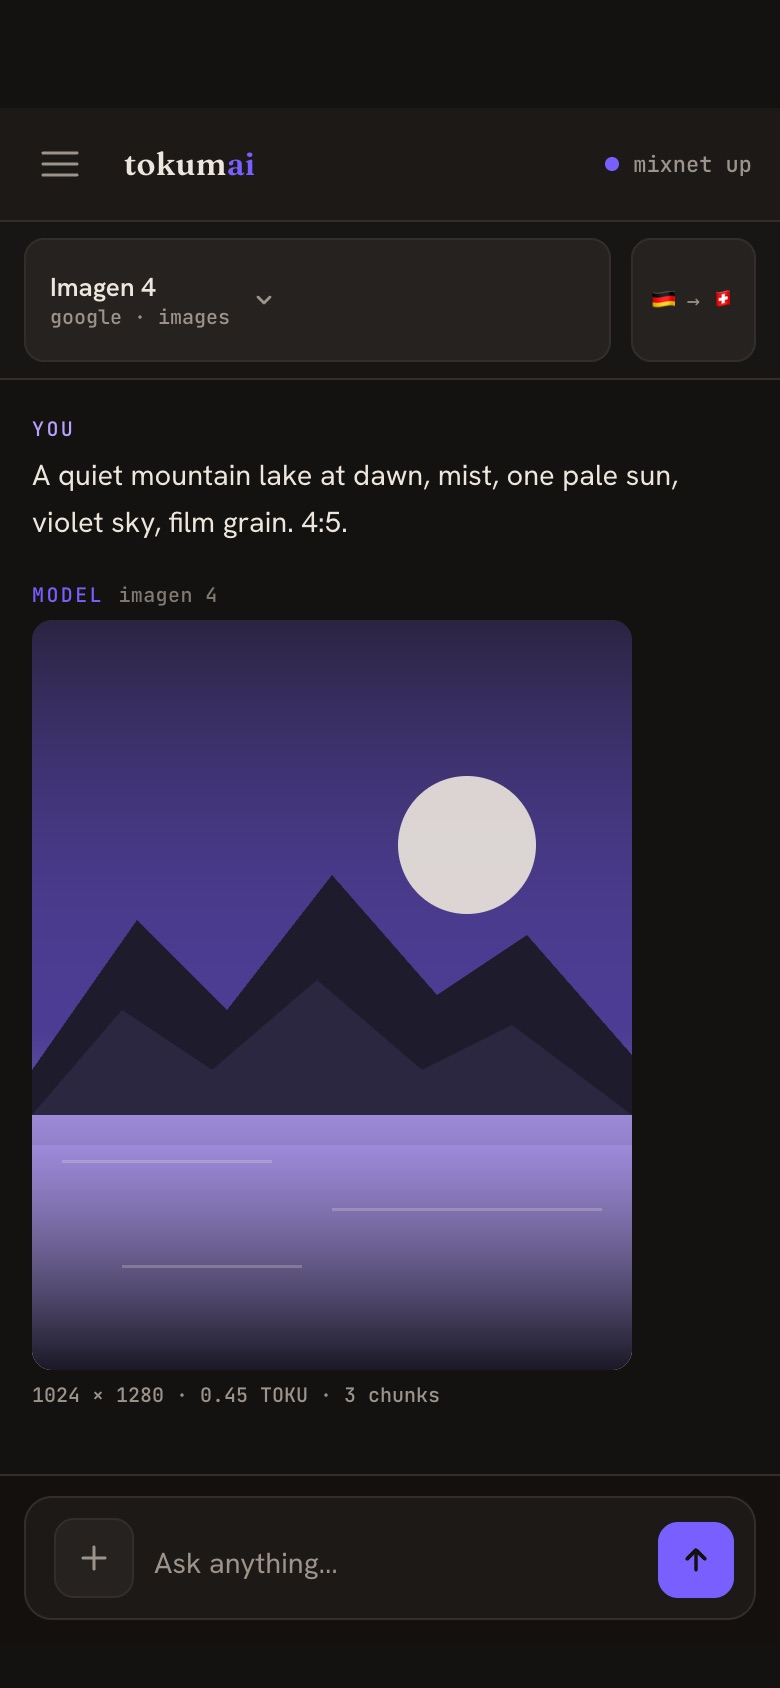
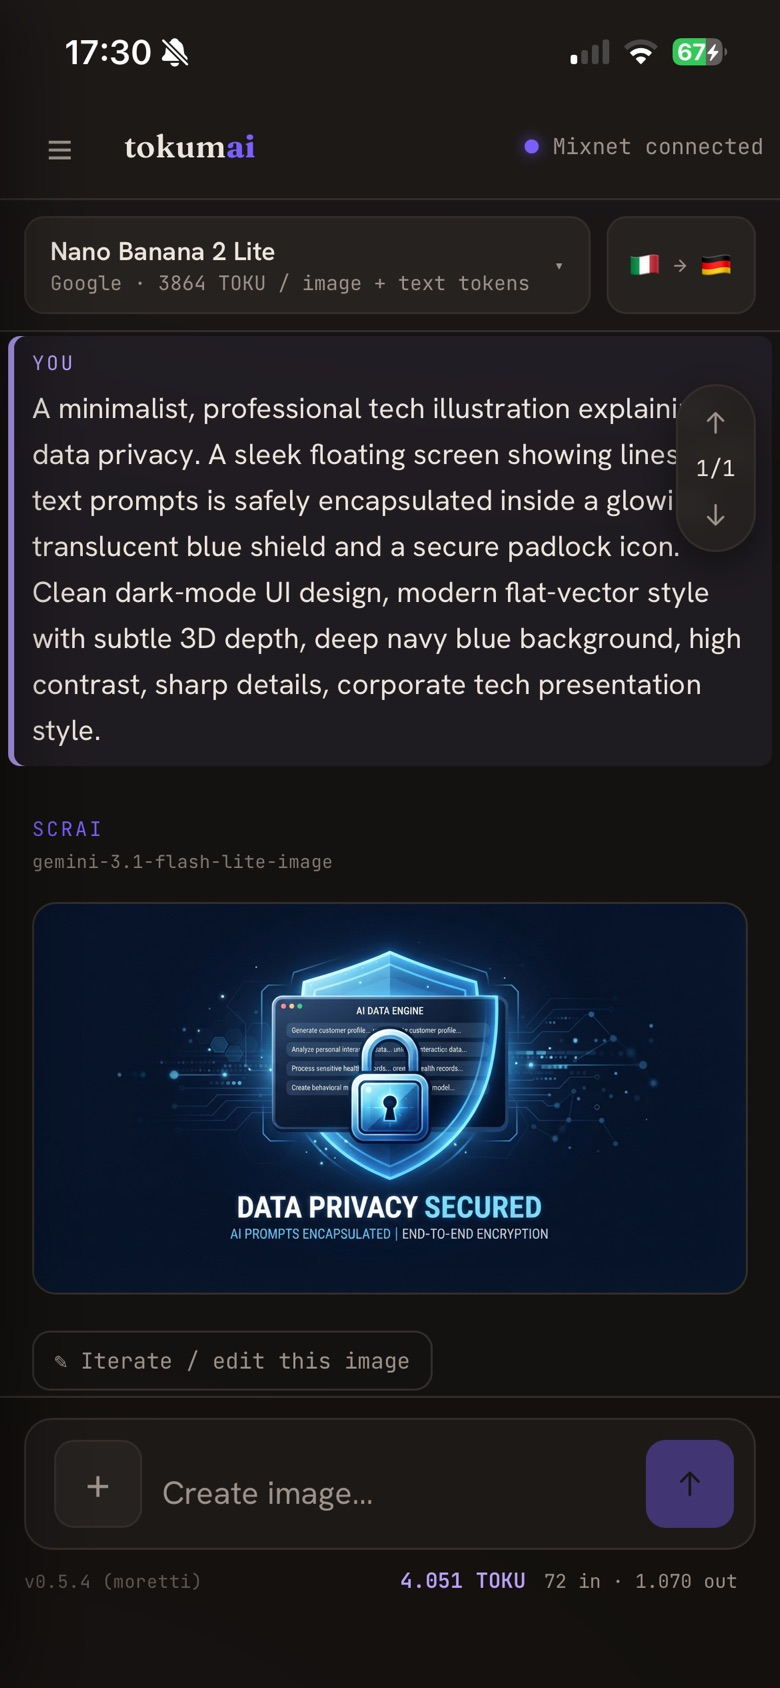
Site: real device captures replace the mockups — and the chat still called itself SCRAI
The homepage shipped drawn stand-ins: a hero with an invented conversation list and a
hand-drawn "mountain lake", and two phone shots that said PLACEHOLDER in the markup. All
five slots are real captures now (2026-09-06, 0.5.4 on an iPhone 17e and macOS):

  hero-imagegen      the macOS window, cropped to its own edges, generating a Nym diagram
  how-phone-start    the start screen with the two tiles
  how-phone-image    a picture generated on the phone
  how-phone-network  Settings → Network & Privacy, the mixnet sliders
  flow-ready         the first-start sequence, connecting through the mixnet

how-phone-buy and how-phone-menu are gone: the names described stand-ins that no longer
exist, and every caption now says what its picture actually shows.

The captures are dark-theme only, so IMAGES points the -light name at the same bytes
rather than shipping a second copy — a dark app photographs dark. site-preview.sh mirrors
that alias, or light mode 404s on exactly those five.

Sources moved to assets/screenshots/ (with a README of what is cut from what). They were
dropped in public/, which is frontendDist — 3.2 MB of PNGs would have been bundled into
every installer on all five platforms.

And the thing the new screenshots made visible: the message author label was still
'scrai', rendered uppercase next to every answer the model gives. It is UI text, not one
of the identifiers the rebrand deliberately kept (bundle id, keychain, storage keys). Now
[…]

diff --git a/server/site/index.html b/server/site/index.html
@@ -158,7 +158,7 @@
       <p>Ask Gemini or GPT anything. Nobody can tie the question to you. Not the model, not the network, not even us. Prompts travel through five Nym mixnet hops, credit is bought once and spent as blind-signed coins. No e-mail, no phone number, no link between your prompts and your real-world identity.</p>
       <div class="cta"><a class="btn primary big" href="#download">Download</a><a class="btn big" href="#buy">Buy TOKU</a></div>
     </div>
-    <div class="shotwrap"><button class="shot " type="button" data-full="/img/hero-imagegen" aria-label="Enlarge: tokumai on macOS: a picture generated over five mixnet hops" style="aspect-ratio:1440/900"><img class="dk " src="/img/hero-imagegen-dark.jpg" alt="tokumai on macOS: a picture generated over five mixnet hops" loading="lazy"><img class="lt " src="/img/hero-imagegen-light.jpg" alt="tokumai on macOS: a picture generated over five mixnet hops" loading="lazy"></button><div class="shotcap"><span>macOS · {{VERSION_SHORT}} · a picture generated over five mixnet hops</span><b>click to enlarge</b></div></div>
+    <div class="shotwrap"><button class="shot " type="button" data-full="/img/hero-imagegen" aria-label="Enlarge: tokumai on macOS: a picture generated over five mixnet hops" style="aspect-ratio:2479/1655"><img class="dk " src="/img/hero-imagegen-dark.jpg" alt="tokumai on macOS: a picture generated over five mixnet hops" loading="lazy"><img class="lt " src="/img/hero-imagegen-light.jpg" alt="tokumai on macOS: a picture generated over five mixnet hops" loading="lazy"></button><div class="shotcap"><span>macOS · {{VERSION_SHORT}} · a picture generated over five mixnet hops</span><b>click to enlarge</b></div></div>
   </div>
 
   <div class="sec" id="how">
@@ -169,12 +169,7 @@
     <div class="screens">
       <button class="shot " type="button" data-full="/img/how-mac-chat" aria-label="Enlarge: tokumai on macOS: a text answer over the mixnet" style="aspect-ratio:1440/900"><img class="dk " src="/img/how-mac-chat-dark.jpg" alt="tokumai on macOS: a text answer over the mixnet" loading="lazy"><img class="lt " src="/img/how-mac-chat-light.jpg" alt="tokumai on macOS: a text answer over the mixnet" loading="lazy"></button>
       <button class="shot " type="button" data-full="/img/how-mac-image" aria-label="Enlarge: tokumai on macOS: a generated picture" style="aspect-ratio:1440/900"><img class="dk " src="/img/how-mac-image-dark.jpg" alt="tokumai on macOS: a generated picture" loading="lazy"><img class="lt " src="/img/how-mac-image-light.jpg" alt="tokumai on macOS: a generated picture" loading="lazy"></button>
-      <div class="phones"><button class="shot ph" type="button" data-full="/img/how-phone-chat" aria-label="Enlarge: tokumai on iPhone: a text answer" style="aspect-ratio:390/844"><img class="dk " src="/img/how-phone-chat-dark.jpg" alt="tokumai on iPhone: a text answer" loading="lazy"><img class="lt " src="/img/how-phone-chat-light.jpg" alt="tokumai on iPhone: a text answer" loading="lazy"></button><button class="shot ph" type="button" data-full="/img/how-phone-image" aria-label="Enlarge: tokumai on iPhone: a generated picture" style="aspect-ratio:390/844"><img class="dk " src="/img/how-phone-image-dark.jpg" alt="tokumai on iPhone: a generated picture" loading="lazy"><img class="lt " src="/img/how-phone-image-light.jpg" alt="tokumai on iPhone: a generated picture" loading="lazy"></button>
-<!-- PLACEHOLDERS: how-phone-buy-* and how-phone-menu-* are generated stand-ins, not
-     screenshots. Replace the four files in server/site/img/ with real 780x1688 tokumai
-     captures (dark + light of each) — same filenames, nothing here needs to change.
-     They are registered in scrai-faucet.rs IMAGES, which is what actually serves them. -->
-<button class="shot ph" type="button" data-full="/img/how-phone-buy" aria-label="Enlarge: tokumai on iPhone: buying credit, invoice with QR code" style="aspect-ratio:390/844"><img class="dk " src="/img/how-phone-buy-dark.jpg" alt="tokumai on iPhone: buying credit, invoice with QR code" loading="lazy"><img class="lt " src="/img/how-phone-buy-light.jpg" alt="tokumai on iPhone: buying credit, invoice with QR code" loading="lazy"></button><button class="shot ph" type="button" data-full="/img/how-phone-menu" aria-label="Enlarge: tokumai on iPhone: the menu open" style="aspect-ratio:390/844"><img class="dk " src="/img/how-phone-menu-dark.jpg" alt="tokumai on iPhone: the menu open" loading="lazy"><img class="lt " src="/img/how-phone-menu-light.jpg" alt="tokumai on iPhone: the menu open" loading="lazy"></button></div>
+      <div class="phones"><button class="shot ph" type="button" data-full="/img/how-phone-start" aria-label="Enlarge: tokumai on iPhone: the start screen, connected through the mixnet" style="aspect-ratio:390/844"><img class="dk " src="/img/how-phone-start-dark.jpg" alt="tokumai on iPhone: the start screen, connected through the mixnet" loading="lazy"><img class="lt " src="/img/how-phone-start-light.jpg" alt="tokumai on iPhone: the start screen, connected through the mixnet" loading="lazy"></button><button class="shot ph" type="button" data-full="/img/how-phone-chat" aria-label="Enlarge: tokumai on iPhone: a text answer" style="aspect-ratio:390/844"><img class="dk " src="/img/how-phone-chat-dark.jpg" alt="tokumai on iPhone: a text answer" loading="lazy"><img class="lt " src="/img/how-phone-chat-light.jpg" alt="tokumai on iPhone: a text answer" loading="lazy"></button><button class="shot ph" type="button" data-full="/img/how-phone-image" aria-label="Enlarge: tokumai on iPhone: a generated picture" style="aspect-ratio:390/844"><img class="dk " src="/img/how-phone-image-dark.jpg" alt="tokumai on iPhone: a generated picture" loading="lazy"><img class="lt " src="/img/how-phone-image-light.jpg" alt="tokumai on iPhone: a generated picture" loading="lazy"></button><button class="shot ph" type="button" data-full="/img/how-phone-network" aria-label="Enlarge: tokumai on iPhone: Settings, the mixnet privacy sliders" style="aspect-ratio:390/844"><img class="dk " src="/img/how-phone-network-dark.jpg" alt="tokumai on iPhone: Settings, the mixnet privacy sliders" loading="lazy"><img class="lt " src="/img/how-phone-network-light.jpg" alt="tokumai on iPhone: Settings, the mixnet privacy sliders" loading="lazy"></button></div>
     </div>
     <p class="note" style="margin-top:12px">Text with Gemini or GPT, pictures with Imagen. A prompt costs a few hundredths of a cent, a 4K picture around fifteen cents; the price is shown before you send.</p>
   </div>
@@ -183,7 +178,7 @@
     <div class="eyebrow">02 · Buy TOKU</div>
     <h2>Credit that can’t be <b>traced</b> to a question</h2>
     <p class="lead">TOKU is prepaid credit. You buy it once as an account top-up, here or in the app, and spend it as blind-signed coins. Before you buy, three things happen in the app, and none of them asks who you are.</p>
-    <div class="flow"><div class="fs"><button class="shot ph" type="button" data-full="/img/flow-ready" aria-label="Enlarge: tokumai on iPhone, connected" style="aspect-ratio:390/844"><img class="dk " src="/img/flow-ready-dark.jpg" alt="tokumai on iPhone, connected" loading="lazy"><img class="lt " src="/img/flow-ready-light.jpg" alt="tokumai on iPhone, connected" loading="lazy"></button><div class="fst"><i>a</i><b>Download the app</b><span>macOS, Linux, Windows, iPhone or Android, from the cards further down. It connects to the mixnet on first start.</span></div></div><div class="fs"><button class="shot ph" type="button" data-full="/img/flow-account" aria-label="Enlarge: Account sheet: create an anonymous account" style="aspect-ratio:390/844"><img class="dk " src="/img/flow-account-dark.jpg" alt="Account sheet: create an anonymous account" loading="lazy"><img class="lt " src="/img/flow-account-light.jpg" alt="Account sheet: create an anonymous account" loading="lazy"></button><div class="fst"><i>b</i><b>Open an anonymous account</b><span>Account → Create anonymous account. No email, no phone, no password. A 24-word phrase is generated on your device and is the whole account.</span></div></div><div class="fs"><button class="shot ph" type="button" data-full="/img/flow-topup" aria-label="Enlarge: Top up on the web: the top-up ID" style="aspect-ratio:390/844"><img class="dk " src="/img/flow-topup-dark.jpg" alt="Top up on the web: the top-up ID" loading="lazy"><img class="lt " src="/img/flow-topup-light.jpg" alt="Top up on the web: the top-up ID" loading="lazy"></button><div class="fst"><i>c</i><b>Pick an amount</b><span>Buy credit → an amount. The app raises the invoice and either shows you how to pay it, or hands it to this site. The credit lands in the app as “held”.</span></div></div></div>
+    <div class="flow"><div class="fs"><button class="shot ph" type="button" data-full="/img/flow-ready" aria-label="Enlarge: tokumai on iPhone: connecting through the mixnet on first start" style="aspect-ratio:390/844"><img class="dk " src="/img/flow-ready-dark.jpg" alt="tokumai on iPhone: connecting through the mixnet on first start" loading="lazy"><img class="lt " src="/img/flow-ready-light.jpg" alt="tokumai on iPhone: connecting through the mixnet on first start" loading="lazy"></button><div class="fst"><i>a</i><b>Download the app</b><span>macOS, Linux, Windows, iPhone or Android, from the cards further down. It connects to the mixnet on first start.</span></div></div><div class="fs"><button class="shot ph" type="button" data-full="/img/flow-account" aria-label="Enlarge: Account sheet: create an anonymous account" style="aspect-ratio:390/844"><img class="dk " src="/img/flow-account-dark.jpg" alt="Account sheet: create an anonymous account" loading="lazy"><img class="lt " src="/img/flow-account-light.jpg" alt="Account sheet: create an anonymous account" loading="lazy"></button><div class="fst"><i>b</i><b>Open an anonymous account</b><span>Account → Create anonymous account. No email, no phone, no password. A 24-word phrase is generated on your device and is the whole account.</span></div></div><div class="fs"><button class="shot ph" type="button" data-full="/img/flow-topup" aria-label="Enlarge: Top up on the web: the top-up ID" style="aspect-ratio:390/844"><img class="dk " src="/img/flow-topup-dark.jpg" alt="Top up on the web: the top-up ID" loading="lazy"><img class="lt " src="/img/flow-topup-light.jpg" alt="Top up on the web: the top-up ID" loading="lazy"></button><div class="fst"><i>c</i><b>Pick an amount</b><span>Buy credit → an amount. The app raises the invoice and either shows you how to pay it, or hands it to this site. The credit lands in the app as “held”.</span></div></div></div>
     
 <div class="blk"><div class="bh"><i>1</i><b>Buy in the app</b><span>Buy credit → pick an amount</span></div>
   <div class="note">The invoice is raised and signed inside the app, where your account key

diff --git a/public/index.html b/public/index.html
@@ -2187,7 +2187,7 @@ try{if(/Windows/i.test(navigator.userAgent))document.documentElement.classList.a
     const prevTop = t.scrollTop;
     t.innerHTML=`<div class="wrap">`+messages.map((m,mi)=>`
       <div class="msg ${m.role}">
-        <div class="who">${m.role==='you'?'you':(m.role==='err'?'error':'scrai')}${m.role==='ai'&&m.model?`<span class="viamodel">${esc(m.model)}</span>`:''}</div>
+        <div class="who">${m.role==='you'?'you':(m.role==='err'?'error':'tokumai')}${m.role==='ai'&&m.model?`<span class="viamodel">${esc(m.model)}</span>`:''}</div>
         <div class="body">${bodyHtml(m,mi)}${(m.role==='you'&&m.editRef)?`<div class="editref">✎ edits the selected picture</div>`:''}${(m.role==='ai'&&m.note)?`<div class="sizenote${m.noteKind?' '+m.noteKind:''}">${esc(m.note)}</div>`:''}${(devCost&&m.role==='ai'&&m.audit)?auditDiv(m.audit):''}${(devCost&&m.role==='you'&&m.xfer)?xferDiv(m.xfer):''}${(m.role==='err'&&m.retry)?`<button class="retrybtn" data-click="retryMsg" data-args="${mi}">↻ Retry</button>`:''}${(m.role==='ai'&&m.streaming&&!m.dismissed)?`<div class="msgacts"><button class="msgact rust" data-click="cancelMsg" data-args="${mi}">✕ Dismiss</button>${m.img?'<span class="billhint">billing has started — this only stops the wait</span>':''}</div>`:''}${(m.role==='ai'&&!m.streaming&&m.canResend)?`<div class="msgacts"><button class="msgact" data-click="resendMsg" data-args="${mi}" title="Send the same question again with the currently selected model">↻ Resend</button></div>`:''}</div>
       </div>`).join("")+`</div>`;
     if(pinQuestion){ pinLastQuestion(t); }

diff --git a/server/src/bin/scrai-faucet.rs b/server/src/bin/scrai-faucet.rs
@@ -106,28 +106,38 @@ const PAID_HTML: &str = r##"<!doctype html>
 </html>
 "##;
 
+// The five real device captures (2026-09-06) exist in ONE theme — the app's dark one.
+// Rather than ship a copy of each under a second name, the light entry points at the same
+// bytes: the page asks for `<name>-light.jpg` in light mode and gets the dark screenshot,
+// which is what a product shot of a dark app looks like anyway. Drop the alias and add a
+// real file the day someone captures the light theme.
+const SHOT_HERO: &[u8] = include_bytes!("../../site/img/hero-imagegen-dark.jpg");
+const SHOT_PH_IMAGE: &[u8] = include_bytes!("../../site/img/how-phone-image-dark.jpg");
+const SHOT_PH_NETWORK: &[u8] = include_bytes!("../../site/img/how-phone-network-dark.jpg");
+const SHOT_PH_START: &[u8] = include_bytes!("../../site/img/how-phone-start-dark.jpg");
+const SHOT_FLOW_READY: &[u8] = include_bytes!("../../site/img/flow-ready-dark.jpg");
+
 const IMAGES: &[(&str, &[u8])] = &[
     ("flow-account-dark.jpg", include_bytes!("../../site/img/flow-account-dark.jpg")),
     ("flow-account-light.jpg", include_bytes!("../../site/img/flow-account-light.jpg")),
-    ("flow-ready-dark.jpg", include_bytes!("../../site/img/flow-ready-dark.jpg")),
-    ("flow-ready-light.jpg", include_bytes!("../../site/img/flow-ready-light.jpg")),
+    ("flow-ready-dark.jpg", SHOT_FLOW_READY),
+    ("flow-ready-light.jpg", SHOT_FLOW_READY),
     ("flow-topup-dark.jpg", include_bytes!("../../site/img/flow-topup-dark.jpg")),
     ("flow-topup-light.jpg", include_bytes!("../../site/img/flow-topup-light.jpg")),
-    ("hero-imagegen-dark.jpg", include_bytes!("../../site/img/hero-imagegen-dark.jpg")),
-    ("hero-imagegen-light.jpg", include_bytes!("../../site/img/hero-imagegen-light.jpg")),
+    ("hero-imagegen-dark.jpg", SHOT_HERO),
+    ("hero-imagegen-light.jpg", SHOT_HERO),
     ("how-mac-chat-dark.jpg", include_bytes!("../../site/img/how-mac-chat-dark.jpg")),
     ("how-mac-chat-light.jpg", include_bytes!("../../site/img/how-mac-chat-light.jpg")),
     ("how-mac-image-dark.jpg", include_bytes!("../../site/img/how-mac-image-dark.jpg")),
     ("how-mac-image-light.jpg", include_bytes!("../../site/img/how-mac-image-light.jpg")),
-    // PLACEHOLDERS until the real captures land — see the comment in site/index.html.
-    ("how-phone-buy-dark.jpg", include_bytes!("../../site/img/how-phone-buy-dark.jpg")),
-    ("how-phone-buy-light.jpg", include_bytes!("../../site/img/how-phone-buy-light.jpg")),
-    ("how-phone-menu-dark.jpg", include_bytes!("../../site/img/how-phone-menu-dark.jpg")),
-    ("how-phone-menu-light.jpg", include_bytes!("../../site/img/how-phone-menu-light.jpg")),
     ("how-phone-chat-dark.jpg", include_bytes!("../../site/img/how-phone-chat-dark.jpg")),
     ("how-phone-chat-light.jpg", include_bytes!("../../site/img/how-phone-chat-light.jpg")),
-    ("how-phone-image-dark.jpg", include_bytes!("../../site/img/how-phone-image-dark.jpg")),
-    ("how-phone-image-light.jpg", include_bytes!("../../site/img/how-phone-image-light.jpg")),
+    ("how-phone-image-dark.jpg", SHOT_PH_IMAGE),
+    ("how-phone-image-light.jpg", SHOT_PH_IMAGE),
+    ("how-phone-network-dark.jpg", SHOT_PH_NETWORK),
+    ("how-phone-network-light.jpg", SHOT_PH_NETWORK),
+    ("how-phone-start-dark.jpg", SHOT_PH_START),
+    ("how-phone-start-light.jpg", SHOT_PH_START),
 ]; // screenshots for the homepage, dark + light of each (the page shows one per theme)
 const MAX_HEAD: usize = 16 * 1024;
 const MAX_BODY: usize = 4 * 1024;

diff --git a/assets/screenshots/README.md b/assets/screenshots/README.md
@@ -1,0 +1,22 @@
+# Source screenshots
+
+The originals the site's images are cut from — full-resolution device captures, kept so a
+crop or a size can be redone without asking for the shot again.
+
+They live HERE and not under `public/` on purpose: `public/` is the app's frontend
+(`tauri.conf.json` → `frontendDist`), so every file in it is bundled into every macOS,
+iOS, Android, Windows and Linux build. Source images would ride along in all five
+installers and never be read.
+
+What is made from them (see `server/site/img/`, registered in `scrai-faucet.rs` IMAGES):
+
+| source | site image | where |
+|---|---|---|
+| `MacOS_ImageGen.png` | `hero-imagegen-dark.jpg` | hero, cropped to the window edges |
+| `ios_startscreen.PNG` | `how-phone-start-dark.jpg` | 01 · how it works |
+| `ios_imagegen.PNG` | `how-phone-image-dark.jpg` | 01 · how it works |
+| `ios_networktuning.PNG` | `how-phone-network-dark.jpg` | 01 · how it works |
+| `ios_bootup.PNG` | `flow-ready-dark.jpg` | 02 · buy TOKU, step (a) |
+
+All five are captures of the app's **dark** theme; the site serves the same bytes for the
+`-light` name. Capture the light theme and the alias in `IMAGES` can become a real file.
